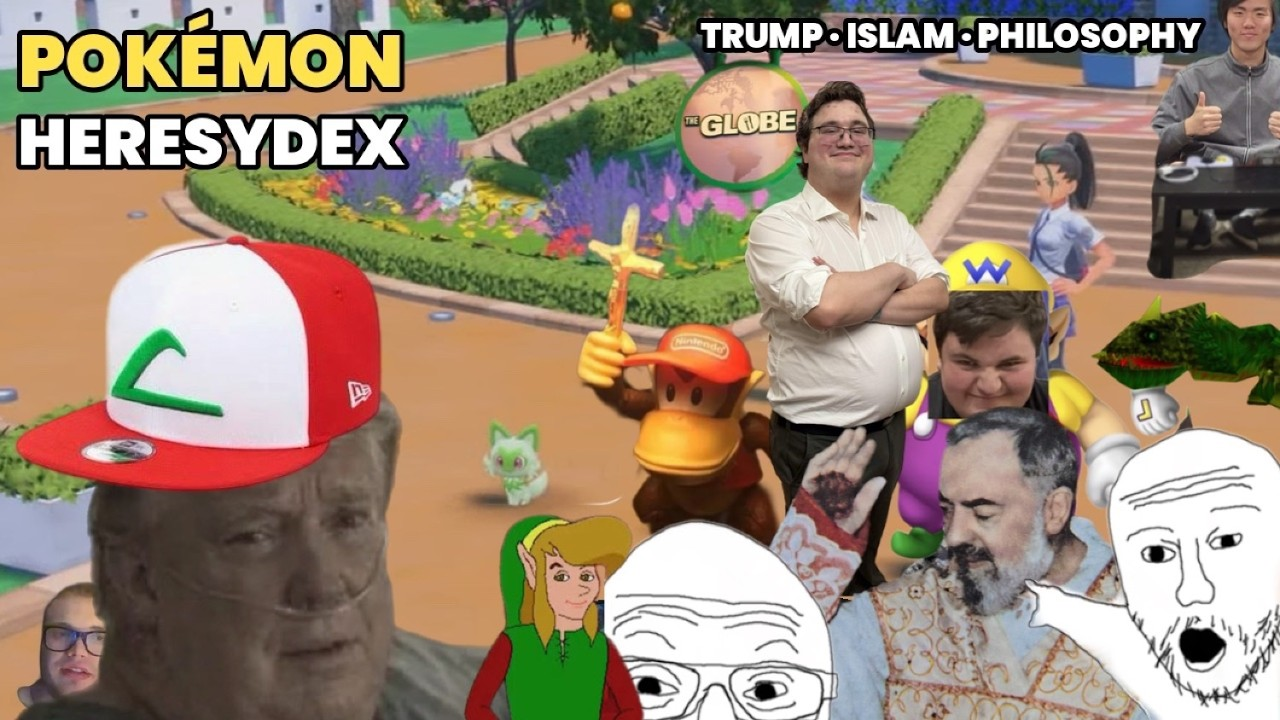
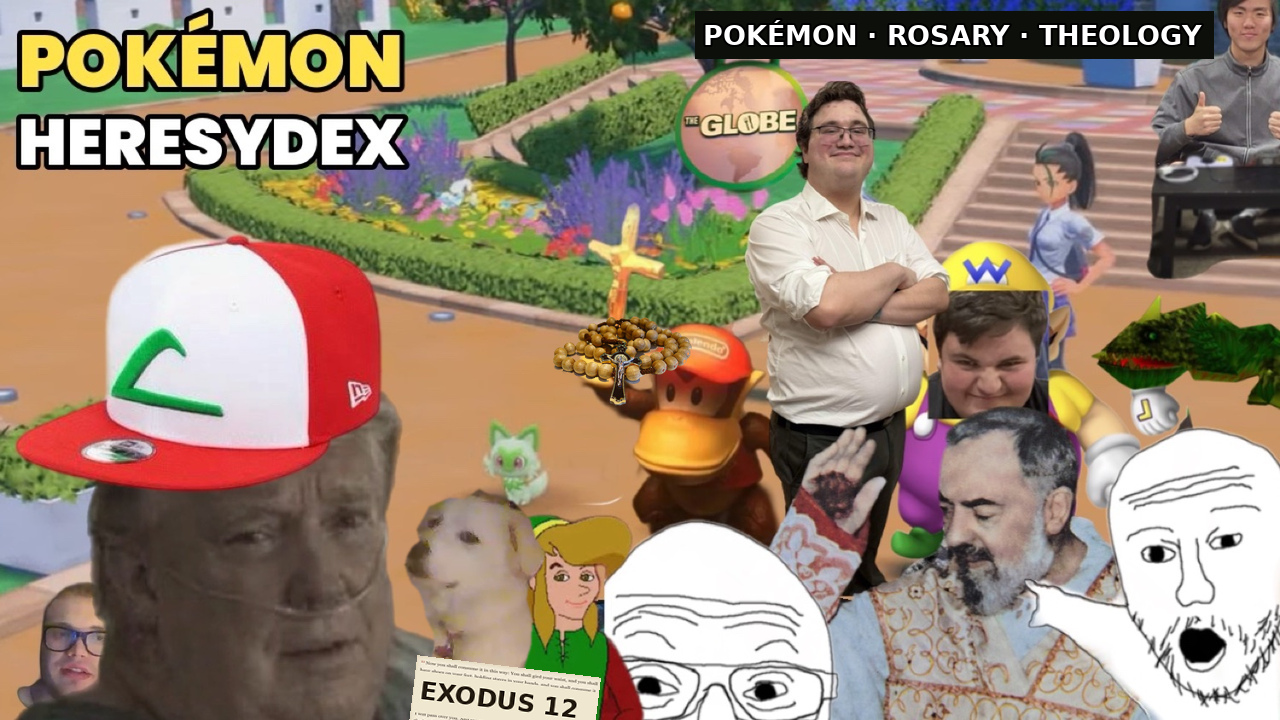
Replace the Episode 169 thumbnail
The published JPEG banner read TRUMP · ISLAM · PHILOSOPHY. Swap in the approved image, whose banner reads POKÉMON · ROSARY · THEOLOGY, and bump the content-hash cache buster on the home page, the episode pages, and the November 7 day page.

Changed region(s): [[0.3125, 0.6722, 0.4688, 1.0], [0.5312, 0.0, 0.9688, 0.0917], [0.4062, 0.4278, 0.5625, 0.5806]]

diff --git a/day/2026-11-07/index.html b/day/2026-11-07/index.html
@@ -11,7 +11,7 @@
 <p class="lu-kicker">Saturday &middot; November 7, 2026</p>
 <h2>Episode 169: Blood, Sweat &amp; Stigmata (Stigmata Scare, Exodus 12, Rosary, Pokémon Violet, Zelda, XC2)</h2>
 <div class="ep-player"><iframe src="https://www.youtube.com/embed/3A509tCcfCw" title="Episode 169: Blood, Sweat &amp; Stigmata (Stigmata Scare, Exodus 12, Rosary, Pokémon Violet, Zelda, XC2)" allow="accelerometer; autoplay; clipboard-write; encrypted-media; gyroscope; picture-in-picture; web-share" referrerpolicy="strict-origin-when-cross-origin" allowfullscreen></iframe></div>
-<figure class="ep-thumb"><img src="../../images/episodes/3A509tCcfCw.jpg?v=8ae88ba087" alt="Episode 169: Blood, Sweat &amp; Stigmata (Stigmata Scare, Exodus 12, Rosary, Pokémon Violet, Zelda, XC2)" width="1280" height="720"></figure>
+<figure class="ep-thumb"><img src="../../images/episodes/3A509tCcfCw.jpg?v=964ee39775" alt="Episode 169: Blood, Sweat &amp; Stigmata (Stigmata Scare, Exodus 12, Rosary, Pokémon Violet, Zelda, XC2)" width="1280" height="720"></figure>
 <div class="lu-note" data-part="summary"><b>Summary</b><p>The Rosary and Exodus 12, then Xenoblade Chronicles 2, Pokémon Violet and Zelda: Ocarina of Time, with a stigmata scare, heresies, philosophy and politics along the way.</p></div>
 <p class="ep-tags"><span class="lu-chip">Games</span> Xenoblade Chronicles 2, Pokémon Violet, Zelda: Ocarina of Time</p>
 <p class="ep-tags"><span class="lu-chip">Topics</span> Rosary, Exodus 12, Stigmata scare, Heresies, Philosophy, Politics</p>

diff --git a/episodes/169/index.html b/episodes/169/index.html
@@ -7,7 +7,7 @@
 <p class="lu-kicker">Saturday &middot; November 7, 2026</p>
 <h2>Episode 169: Blood, Sweat &amp; Stigmata (Stigmata Scare, Exodus 12, Rosary, Pokémon Violet, Zelda, XC2)</h2>
 <div class="ep-player"><iframe src="https://www.youtube.com/embed/3A509tCcfCw" title="Episode 169: Blood, Sweat &amp; Stigmata (Stigmata Scare, Exodus 12, Rosary, Pokémon Violet, Zelda, XC2)" allow="accelerometer; autoplay; clipboard-write; encrypted-media; gyroscope; picture-in-picture; web-share" referrerpolicy="strict-origin-when-cross-origin" allowfullscreen></iframe></div>
-<figure class="ep-thumb"><img src="../../images/episodes/3A509tCcfCw.jpg?v=8ae88ba087" alt="Episode 169: Blood, Sweat &amp; Stigmata (Stigmata Scare, Exodus 12, Rosary, Pokémon Violet, Zelda, XC2)" width="1280" height="720"></figure>
+<figure class="ep-thumb"><img src="../../images/episodes/3A509tCcfCw.jpg?v=964ee39775" alt="Episode 169: Blood, Sweat &amp; Stigmata (Stigmata Scare, Exodus 12, Rosary, Pokémon Violet, Zelda, XC2)" width="1280" height="720"></figure>
 <div class="lu-note" data-part="summary"><b>Summary</b><p>The Rosary and Exodus 12, then Xenoblade Chronicles 2, Pokémon Violet and Zelda: Ocarina of Time, with a stigmata scare, heresies, philosophy and politics along the way.</p></div>
 <p class="ep-tags"><span class="lu-chip">Games</span> Xenoblade Chronicles 2, Pokémon Violet, Zelda: Ocarina of Time</p>
 <p class="ep-tags"><span class="lu-chip">Topics</span> Rosary, Exodus 12, Stigmata scare, Heresies, Philosophy, Politics</p>

diff --git a/episodes/index.html b/episodes/index.html
@@ -7,7 +7,7 @@
 <p class="lu-kicker">Saturday &middot; November 7, 2026</p>
 <h2>Episode 169: Blood, Sweat &amp; Stigmata (Stigmata Scare, Exodus 12, Rosary, Pokémon Violet, Zelda, XC2)</h2>
 <div class="ep-player"><iframe src="https://www.youtube.com/embed/3A509tCcfCw" title="Episode 169: Blood, Sweat &amp; Stigmata (Stigmata Scare, Exodus 12, Rosary, Pokémon Violet, Zelda, XC2)" allow="accelerometer; autoplay; clipboard-write; encrypted-media; gyroscope; picture-in-picture; web-share" referrerpolicy="strict-origin-when-cross-origin" allowfullscreen></iframe></div>
-<figure class="ep-thumb"><img src="../images/episodes/3A509tCcfCw.jpg?v=8ae88ba087" alt="Episode 169: Blood, Sweat &amp; Stigmata (Stigmata Scare, Exodus 12, Rosary, Pokémon Violet, Zelda, XC2)" width="1280" height="720"></figure>
+<figure class="ep-thumb"><img src="../images/episodes/3A509tCcfCw.jpg?v=964ee39775" alt="Episode 169: Blood, Sweat &amp; Stigmata (Stigmata Scare, Exodus 12, Rosary, Pokémon Violet, Zelda, XC2)" width="1280" height="720"></figure>
 <div class="lu-note" data-part="summary"><b>Summary</b><p>The Rosary and Exodus 12, then Xenoblade Chronicles 2, Pokémon Violet and Zelda: Ocarina of Time, with a stigmata scare, heresies, philosophy and politics along the way.</p></div>
 <p class="ep-tags"><span class="lu-chip">Games</span> Xenoblade Chronicles 2, Pokémon Violet, Zelda: Ocarina of Time</p>
 <p class="ep-tags"><span class="lu-chip">Topics</span> Rosary, Exodus 12, Stigmata scare, Heresies, Philosophy, Politics</p>

diff --git a/index.html b/index.html
@@ -19,7 +19,7 @@
 <p class="lu-kicker">Saturday &middot; November 7, 2026</p>
 <h2>Episode 169: Blood, Sweat &amp; Stigmata (Stigmata Scare, Exodus 12, Rosary, Pokémon Violet, Zelda, XC2)</h2>
 <div class="ep-player"><iframe src="https://www.youtube.com/embed/3A509tCcfCw" title="Episode 169: Blood, Sweat &amp; Stigmata (Stigmata Scare, Exodus 12, Rosary, Pokémon Violet, Zelda, XC2)" allow="accelerometer; autoplay; clipboard-write; encrypted-media; gyroscope; picture-in-picture; web-share" referrerpolicy="strict-origin-when-cross-origin" allowfullscreen></iframe></div>
-<figure class="ep-thumb"><img src="images/episodes/3A509tCcfCw.jpg?v=8ae88ba087" alt="Episode 169: Blood, Sweat &amp; Stigmata (Stigmata Scare, Exodus 12, Rosary, Pokémon Violet, Zelda, XC2)" width="1280" height="720"></figure>
+<figure class="ep-thumb"><img src="images/episodes/3A509tCcfCw.jpg?v=964ee39775" alt="Episode 169: Blood, Sweat &amp; Stigmata (Stigmata Scare, Exodus 12, Rosary, Pokémon Violet, Zelda, XC2)" width="1280" height="720"></figure>
 <div class="lu-note" data-part="summary"><b>Summary</b><p>The Rosary and Exodus 12, then Xenoblade Chronicles 2, Pokémon Violet and Zelda: Ocarina of Time, with a stigmata scare, heresies, philosophy and politics along the way.</p></div>
 <p class="ep-tags"><span class="lu-chip">Games</span> Xenoblade Chronicles 2, Pokémon Violet, Zelda: Ocarina of Time</p>
 <p class="ep-tags"><span class="lu-chip">Topics</span> Rosary, Exodus 12, Stigmata scare, Heresies, Philosophy, Politics</p>
